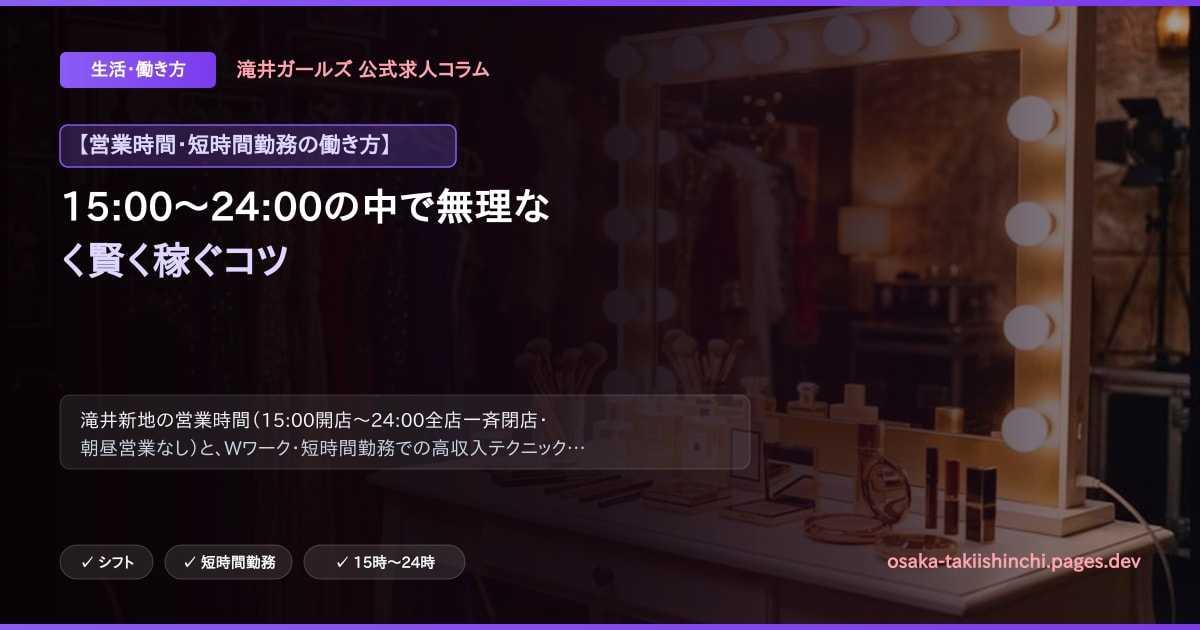
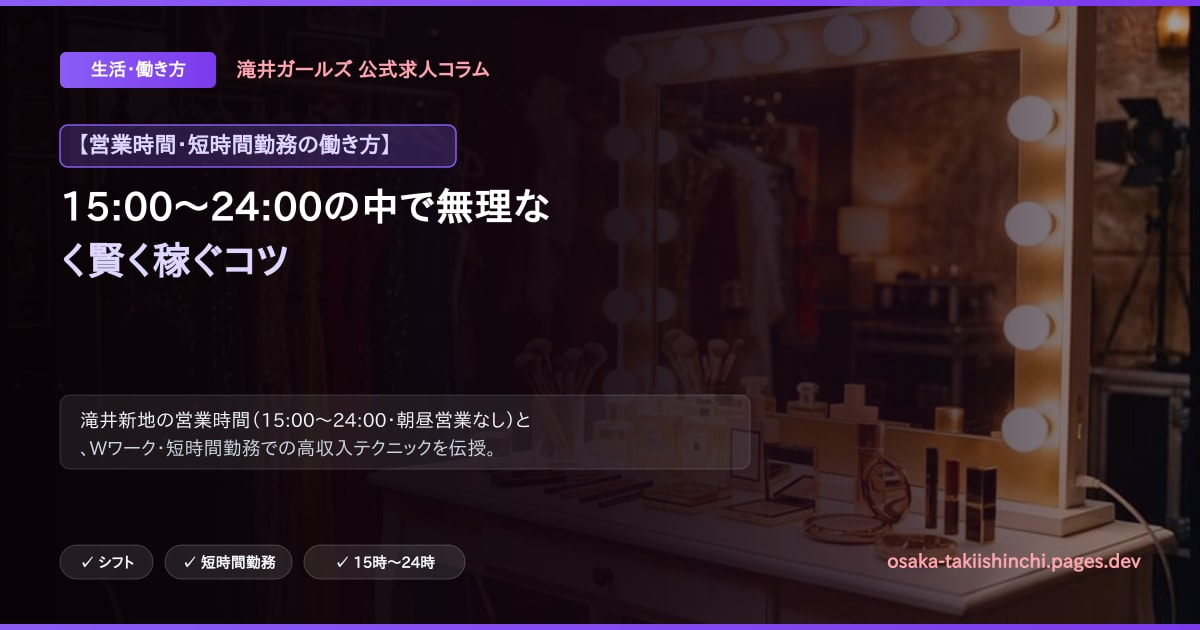
Remove 全店一斉閉店 from operating hours across site and articles

Changed region(s): [[0.0617, 0.6333, 0.4933, 0.7238]]

diff --git a/src/blogData.original.ts b/src/blogData.original.ts
@@ -373,7 +373,7 @@ export const BLOG_ARTICLES = [
         "type": "list",
         "items": [
           "① シャワー設備はなく簡易洗浄で行う：シャワー設備はないため、当店が常備しているウェットティッシュや除菌スプレー等で下半身を清潔にし、完全受け身のシンプルなサービスを行います。接客後に女性はシャワーを浴びていただけます。",
-          "② 営業時間は15:00〜24:00：朝や昼からの営業はなく、15:00開店〜24:00全店一斉閉店となります。夕方〜夜の時間帯で働きたい方に最適です。"
+          "② 営業時間は15:00〜24:00：朝や昼からの営業はなく、15:00〜24:00となります。夕方〜夜の時間帯で働きたい方に最適です。"
         ]
       },
       {
@@ -436,7 +436,7 @@ export const BLOG_ARTICLES = [
       },
       {
         "type": "p",
-        "text": "滝井新地の営業時間は15:00開店〜24:00全店一斉閉店（朝・昼の営業なし）です。また、15分などの超短時間コースはなく、30分コース（女の子バック8,000円）から設定されており、慌ただしすぎず落ち着いたペースでしっかり稼げます。"
+        "text": "滝井新地の営業時間は15:00〜24:00（朝・昼の営業なし）です。また、15分などの超短時間コースはなく、30分コース（女の子バック8,000円）から設定されており、慌ただしすぎず落ち着いたペースでしっかり稼げます。"
       },
       {
         "type": "cta"
@@ -503,7 +503,7 @@ export const BLOG_ARTICLES = [
     "categoryLabel": "生活・働き方",
     "publishedAt": "2026-08-31",
     "readTime": "4分",
-    "summary": "滝井新地の営業時間（15:00開店〜24:00全店一斉閉店・朝昼営業なし）と、Wワーク・短時間勤務での高収入テクニックを伝授。",
+    "summary": "滝井新地の営業時間（15:00〜24:00・朝昼営業なし）と、Wワーク・短時間勤務での高収入テクニックを伝授。",
     "eyeCatch": "/images/col_unique_art_10.jpg",
     "author": {
       "name": "女性サポートスタッフ",
@@ -520,7 +520,7 @@ export const BLOG_ARTICLES = [
     "content": [
       {
         "type": "p",
-        "text": "滝井新地の営業時間は15:00に開店し、24:00に全店一斉閉店となります（朝・昼からの営業はありません）。"
+        "text": "滝井新地の営業時間は15:00に開店し、24:00に閉店となります（朝・昼からの営業はありません）。"
       },
       {
         "type": "h2",
@@ -934,7 +934,7 @@ export const BLOG_ARTICLES = [
       },
       {
         "type": "p",
-        "text": "滝井新地は24:00に全店一斉閉店となります。お着替えをしてメイクをオフしたら、本日働いた分のお給料（1本30分8,000円×本数分）を【全額即日・現金手渡し】で受け取ります。衣装代やお菓子代などの雑費天引きは一切なく、稼いだ全額がそのまま手元に残ります！"
+        "text": "滝井新地は24:00に閉店となります。お着替えをしてメイクをオフしたら、本日働いた分のお給料（1本30分8,000円×本数分）を【全額即日・現金手渡し】で受け取ります。衣装代やお菓子代などの雑費天引きは一切なく、稼いだ全額がそのまま手元に残ります！"
       },
       {
         "type": "qna",
@@ -6499,7 +6499,7 @@ export const BLOG_ARTICLES = [
       },
       {
         "type": "p",
-        "text": "滝井新地は15:00開店〜24:00全店一斉閉店のルールが守られており、お給料も「30分コース・女の子バック額8,000円」と非常にシンプルで明瞭です。また、お店の玄関から顔が見えない「お店の奥」で顔合わせを行うため、プライバシーを守りながら落ち着いて働けます。"
+        "text": "滝井新地は15:00〜24:00のルールが守られており、お給料も「30分コース・女の子バック額8,000円」と非常にシンプルで明瞭です。また、お店の玄関から顔が見えない「お店の奥」で顔合わせを行うため、プライバシーを守りながら落ち着いて働けます。"
       },
       {
         "type": "h2",

diff --git a/src/blogData.ts b/src/blogData.ts
@@ -73,7 +73,7 @@ export function getValidArticleEyeCatch(art: { id?: string | number; slug?: stri
   return '/images/japanese_hero_banner.jpg';
 }
 
-const BLOG_DATA_VERSION = '20261012_takishinchi_articles_v8_clean';
+const BLOG_DATA_VERSION = '20261012_takishinchi_articles_v9_clean';
 
 export function sanitizeTakiiArticles(articles: BlogArticle[]): BlogArticle[] {
   if (!Array.isArray(articles)) return BLOG_ARTICLES;
@@ -104,7 +104,8 @@ export function sanitizeTakiiArticles(articles: BlogArticle[]): BlogArticle[] {
         s.includes('通りから姿が見えない') ||
         s.includes('18歳') ||
         s.includes('高校生不可') ||
-        s.includes('10代')
+        s.includes('10代') ||
+        s.includes('全店一斉閉店')
       ) {
         return cleanDefault;
       }
@@ -113,6 +114,7 @@ export function sanitizeTakiiArticles(articles: BlogArticle[]): BlogArticle[] {
       .replace(/tobitashinchi-/g, 'takishinchi-')
       .replace(/15分5,000円/g, '30分8,000円')
       .replace(/10:00〜24:00/g, '15:00〜24:00')
+      .replace(/全店一斉閉店/g, '閉店')
       .replace(/満18歳以上（高校生不可）/g, '満20歳以上')
       .replace(/18歳（高校生不可）/g, '20歳以上')
       .replace(/18歳未満および高校生/g, '20歳未満の方')

diff --git a/src/siteContent.original.ts b/src/siteContent.original.ts
@@ -174,7 +174,7 @@ export const DEFAULT_SITE_CONTENT = {
       {
         "id": "faq-9",
         "question": "Q. 営業時間は何時からですか？週1日や掛け持ち（Wワーク）も可能？",
-        "answer": "A. 営業時間は15:00開店〜24:00全店一斉閉店です（朝・昼からの営業はありません）。週1日〜、週末のみ、昼職や学校帰りの数時間など、希望に合わせた柔軟なシフトで働けます。"
+        "answer": "A. 営業時間は15:00〜24:00です（朝・昼からの営業はありません）。週1日〜、週末のみ、昼職や学校帰りの数時間など、希望に合わせた柔軟なシフトで働けます。"
       },
       {
         "id": "faq-10",

diff --git a/src/siteContent.ts b/src/siteContent.ts
@@ -72,7 +72,7 @@ export interface SiteContent {
   };
 }
 
-export const SITE_CONTENT_VERSION = '20261012_takishinchi_clean_v8';
+export const SITE_CONTENT_VERSION = '20261012_takishinchi_clean_v9';
 export const DEFAULT_SITE_CONTENT: SiteContent = siteContentJson as any;
 
 export function sanitizeTakiiSiteContent(raw: any): any {
@@ -96,7 +96,8 @@ export function sanitizeTakiiSiteContent(raw: any): any {
     rawStr.includes('通りから姿が見えない') ||
     rawStr.includes('18歳') ||
     rawStr.includes('高校生不可') ||
-    rawStr.includes('飛田ガールズ')
+    rawStr.includes('飛田ガールズ') ||
+    rawStr.includes('全店一斉閉店')
   ) {
     return DEFAULT_SITE_CONTENT;
   }

diff --git a/src/components/JobRequirements.tsx b/src/components/JobRequirements.tsx
@@ -113,7 +113,7 @@ export default function JobRequirements() {
       content: (
         <div className="space-y-2 text-xs sm:text-sm text-on-surface-variant leading-relaxed">
           <p>
-            <strong>15:00〜24:00</strong>（24:00全店一斉閉店 ※朝・昼からの営業はありません）
+            <strong>15:00〜24:00</strong>（※朝・昼からの営業はありません）
           </p>
           <p className="text-xs sm:text-sm">
             ・週1日・1日3時間〜の短時間勤務からOK<br />

diff --git a/src/components/AboutTobita.tsx b/src/components/AboutTobita.tsx
@@ -65,7 +65,7 @@ export default function AboutTobita() {
     },
     {
       label: '営業時間・シフト',
-      value: '15:00〜24:00全店一斉閉店（週1日・1日3時間〜OK ／ 完全自由シフト・ノルマ罰金なし）'
+      value: '15:00〜24:00（週1日・1日3時間〜OK ／ 完全自由シフト・ノルマ罰金なし）'
     },
     {
       label: 'お給料システム',
